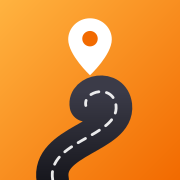
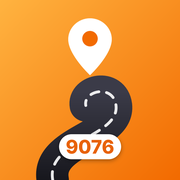
4.5.0: nome 9076 RoadBook e Modifica/Elimina rapide sui Run (#4)
- nome e icona: pagina iniziale, titolo, manifest, testi it/en/fr; etichetta 9076 nella zona sicura
- card dei Run: scorrimento a sinistra con Modifica ed Elimina (solo permesso runs_edit)
- dettaglio Run: Modifica in alto a destra
- eliminazione sempre con conferma rossa e testo su cosa viene cancellato
- test places: scorrimento, Annulla, conferma, Modifica

Claude-Session: https://claude.ai/code/session_01XTMJvUUmY7imZFYcgZZsDi

Changed region(s): [[0.3056, 0.7222, 0.6944, 0.9167]]

diff --git a/i18n.js b/i18n.js
@@ -148,7 +148,7 @@
     delete_member_msg: ["Verranno eliminati anche iscrizioni e dati di emergenza. In alternativa puoi disattivarlo.", "Signups and emergency details will be deleted too. You can deactivate instead.", "Inscriptions et données d'urgence seront supprimées aussi. Vous pouvez le désactiver à la place."],
     delete_photo_msg: ["Eliminare questa foto?", "Delete this photo?", "Supprimer cette photo ?"],
     delete_run: ["Elimina il Run", "Delete run", "Supprimer le Run"],
-    delete_run_msg: ["Verranno eliminati anche iscrizioni, formazione e foto.", "Signups, formation and photos will be deleted too.", "Inscriptions, formation et photos seront supprimées aussi."],
+    delete_run_msg: ["Verranno eliminati anche iscrizioni, formazione, pagamenti e foto. L'operazione non si può annullare.", "Signups, formation, payments and photos will be deleted too. This cannot be undone.", "Inscriptions, formation, paiements et photos seront supprimés aussi. Action irréversible."],
     deleted: ["Eliminato", "Deleted", "Supprimé"],
     destination: ["Destinazione", "Destination", "Destination"],
     diff_facile: ["Facile", "Easy", "Facile"], diff_impegnativa: ["Impegnativa", "Challenging", "Exigeante"], diff_media: ["Media", "Medium", "Moyenne"],
@@ -209,11 +209,11 @@
     importing: ["Importazione…", "Importing…", "Import en cours…"],
     inactive: ["Non attivo", "Inactive", "Inactif"],
     install: ["Installa", "Install", "Installer"],
-    install_ios: ["In Safari tocca Condividi, poi \"Aggiungi alla schermata Home\". Poi apri Roadbook dalla Home e inserisci il codice.", "In Safari tap Share, then \"Add to Home Screen\". Then open Roadbook from your Home Screen and enter your code.", "Dans Safari touchez Partager, puis « Sur l'écran d'accueil ». Ouvrez ensuite Roadbook depuis l'accueil et saisissez le code."],
-    install_other: ["Installa Roadbook come app sul dispositivo per aprirlo con un tocco.", "Install Roadbook as an app for one-tap access.", "Installez Roadbook comme application pour un accès en un geste."],
-    install_title: ["Usa Roadbook come app", "Use Roadbook as an app", "Utilisez Roadbook comme application"],
+    install_ios: ["In Safari tocca Condividi, poi \"Aggiungi alla schermata Home\". Poi apri 9076 RoadBook dalla Home e inserisci il codice.", "In Safari tap Share, then \"Add to Home Screen\". Then open 9076 RoadBook from your Home Screen and enter your code.", "Dans Safari touchez Partager, puis « Sur l'écran d'accueil ». Ouvrez ensuite 9076 RoadBook depuis l'accueil et saisissez le code."],
+    install_other: ["Installa 9076 RoadBook come app sul dispositivo per aprirlo con un tocco.", "Install 9076 RoadBook as an app for one-tap access.", "Installez 9076 RoadBook comme application pour un accès en un geste."],
+    install_title: ["Usa 9076 RoadBook come app", "Use 9076 RoadBook as an app", "Utilisez 9076 RoadBook comme application"],
     invite: ["Invito", "Invitation", "Invitation"],
-    invite_text: ["Ciao {0}! Ecco Roadbook, l'app del {1}. Apri {2} e usa il codice {3}.", "Hi {0}! Here's Roadbook, the {1} app. Open {2} and use code {3}.", "Salut {0} ! Voici Roadbook, l'appli du {1}. Ouvre {2} et utilise le code {3}."],
+    invite_text: ["Ciao {0}! Ecco 9076 RoadBook, l'app del {1}. Apri {2} e usa il codice {3}.", "Hi {0}! Here's 9076 RoadBook, the {1} app. Open {2} and use code {3}.", "Salut {0} ! Voici 9076 RoadBook, l'appli du {1}. Ouvre {2} et utilise le code {3}."],
     joined: ["Iscritto dal", "Member since", "Membre depuis"],
     k_rc: ["Road Captain", "Road Captain", "Road Captain"], k_safety: ["Safety", "Safety", "Safety"], k_scopa: ["Scopa", "Sweep", "Serre-file"], k_socio: ["Socio", "Member", "Membre"],
     language: ["Lingua", "Language", "Langue"],
@@ -241,7 +241,7 @@
     em_more: ["Aggiungi moto, gruppo sanguigno e salute (facoltativo)", "Add bike, blood type and health (optional)", "Ajouter moto, groupe sanguin et santé (facultatif)"],
     em_less: ["Nascondi i dati facoltativi", "Hide optional details", "Masquer les données facultatives"],
     tour_title: ["Guida rapida", "Quick guide", "Guide rapide"],
-    tour_sub: ["Come si usa Roadbook in 3 passi", "How Roadbook works in 3 steps", "Roadbook en 3 étapes"],
+    tour_sub: ["Come si usa 9076 RoadBook in 3 passi", "How 9076 RoadBook works in 3 steps", "9076 RoadBook en 3 étapes"],
     tour1_t: ["Rispondi ai Run", "Answer the Runs", "Répondez aux Runs"],
     tour1_d: ["Nella scheda Run tocca \"Ci sono\" o \"Non ci sono\". Se porti un passeggero, aggiungilo con un tocco.", "In the Run tab tap \"I'm in\" or \"I'm out\". Add a passenger with one tap.", "Dans l'onglet Run, touchez \"J'y suis\" ou \"Je n'y suis pas\". Ajoutez un passager d'un geste."],
     tour2_t: ["In caso di emergenza", "In an emergency", "En cas d'urgence"],
@@ -385,7 +385,7 @@
     pb_choose_short: ["Scegli", "Choose", "Choisir"],
     pb_change: ["Cambia", "Change", "Changer"],
     pb_open: ["Apri {0}", "Open {0}", "Ouvrir {0}"],
-    pb_once: ["La scegli una volta sola: Roadbook la ricorda su questo dispositivo.", "Choose it once: Roadbook remembers it on this device.", "Choisissez-la une fois : Roadbook s'en souvient sur cet appareil."],
+    pb_once: ["La scegli una volta sola: 9076 RoadBook la ricorda su questo dispositivo.", "Choose it once: 9076 RoadBook remembers it on this device.", "Choisissez-la une fois : 9076 RoadBook s'en souvient sur cet appareil."],
     pb_hint_ios: ["Copia i dati, poi tocca il pulsante: si apre l'App Store sulla tua banca, tocca «Apri» e incolla i dati nel bonifico.", "Copy the details, then tap the button: the App Store opens on your bank, tap «Open» and paste the details.", "Copiez les données, puis touchez le bouton : l'App Store s'ouvre sur votre banque, touchez «Ouvrir» et collez les données."],
     pb_hint_android: ["Copia i dati, poi tocca il pulsante: si apre l'app della banca (o il Play Store, dove tocchi «Apri»). Incolla i dati nel bonifico.", "Copy the details, then tap the button: your bank app opens (or the Play Store, tap «Open»). Paste the details.", "Copiez les données, puis touchez le bouton : l'app de la banque s'ouvre (ou le Play Store, touchez «Ouvrir»). Collez les données."],
     pb_hint_desk: ["Copia i dati e incollali nel bonifico dal sito della tua banca.", "Copy the details and paste them into a transfer on your bank's website.", "Copiez les données et collez-les dans un virement sur le site de votre banque."],
@@ -489,7 +489,7 @@
     live_share: ["Condividi la mia posizione", "Share my position", "Partager ma position"],
     live_share_on: ["Attiva: la vedono solo gli organizzatori", "On: only organisers can see it", "Activée : seuls les organisateurs la voient"],
     live_share_off: ["Spenta", "Off", "Désactivée"],
-    live_note: ["Su iPhone tieni Roadbook aperto con lo schermo acceso (sul supporto della moto): la posizione si aggiorna solo così. Si spegne da sola a fine Run e viene cancellata dopo 2 giorni.", "On iPhone keep Roadbook open with the screen on (on the bike mount): only then does the position update. It stops by itself after the Run and is deleted after 2 days.", "Sur iPhone gardez Roadbook ouvert écran allumé (sur le support moto) : la position ne se met à jour qu'ainsi. Elle s'arrête seule après le Run et est effacée après 2 jours."],
+    live_note: ["Su iPhone tieni 9076 RoadBook aperto con lo schermo acceso (sul supporto della moto): la posizione si aggiorna solo così. Si spegne da sola a fine Run e viene cancellata dopo 2 giorni.", "On iPhone keep 9076 RoadBook open with the screen on (on the bike mount): only then does the position update. It stops by itself after the Run and is deleted after 2 days.", "Sur iPhone gardez 9076 RoadBook ouvert écran allumé (sur le support moto) : la position ne se met à jour qu'ainsi. Elle s'arrête seule après le Run et est effacée après 2 jours."],
     live_map: ["Mappa del gruppo", "Group map", "Carte du groupe"],
     live_map_d: ["Chi è staccato, chi non aggiorna, distanza dal capofila", "Who is left behind, who is not updating, distance from the leader", "Qui est décroché, qui ne met pas à jour, distance du leader"],
     live_help: ["Aggiornamento ogni 20 secondi. \"Non aggiorna\" dopo {0} minuti senza posizione; \"staccato\" oltre {1} km dal Road Captain in testa.", "Updates every 20 seconds. \"Not updating\" after {0} minutes without a position; \"left behind\" beyond {1} km from the leading Road Captain.", "Mise à jour toutes les 20 secondes. « Sans mise à jour » après {0} minutes ; « décroché » au-delà de {1} km du Road Captain de tête."],
@@ -520,7 +520,7 @@
     push_s_on: ["Attive: promemoria 24 ore, 2 ore e 1 ora prima dei Run a cui partecipi", "On: reminders 24 h, 2 h and 1 h before the Runs you join", "Activées : rappels 24 h, 2 h et 1 h avant vos Runs"],
     push_s_off: ["Non attive su questo dispositivo", "Not active on this device", "Non activées sur cet appareil"],
     push_s_denied: ["Bloccate nelle impostazioni del dispositivo", "Blocked in device settings", "Bloquées dans les réglages"],
-    push_s_install: ["Su iPhone/iPad aggiungi prima Roadbook alla schermata Home", "On iPhone/iPad, first add Roadbook to the Home Screen", "Sur iPhone/iPad, ajoutez d'abord Roadbook à l'écran d'accueil"],
+    push_s_install: ["Su iPhone/iPad aggiungi prima 9076 RoadBook alla schermata Home", "On iPhone/iPad, first add 9076 RoadBook to the Home Screen", "Sur iPhone/iPad, ajoutez d'abord 9076 RoadBook à l'écran d'accueil"],
     push_s_unsupported: ["Non supportate da questo browser", "Not supported by this browser", "Non prises en charge par ce navigateur"],
     push_on: ["Attiva", "Turn on", "Activer"],
     push_off: ["Disattiva", "Turn off", "Désactiver"],
@@ -706,7 +706,7 @@
     settings: ["Impostazioni", "Settings", "Réglages"],
     share: ["Condividi", "Share", "Partager"],
     share_app: ["Condividi l'app", "Share the app", "Partager l'appli"],
-    share_app_text: ["Roadbook, l'app del {0}: {1}", "Roadbook, the {0} app: {1}", "Roadbook, l'appli du {0} : {1}"],
+    share_app_text: ["9076 RoadBook, l'app del {0}: {1}", "9076 RoadBook, the {0} app: {1}", "9076 RoadBook, l'appli du {0} : {1}"],
     show: ["Mostra", "Show", "Afficher"],
     sounds: ["Suoni", "Sounds", "Sons"],
     st_annullato: ["Annullato", "Cancelled", "Annulé"], st_concluso: ["Concluso", "Completed", "Terminé"], st_programmato: ["Programmato", "Scheduled", "Prévu"],

diff --git a/tests/places.test.js b/tests/places.test.js
@@ -57,7 +57,8 @@ function backend(page, level, log) {
     else if (fn === 'rc_run_photos') out = { ok: true, photos: [{ id: uid(), member_id: st.members[0].id, caption: null, data: GIF, created_at: new Date().toISOString() }] };
     else if (fn === 'rc_signup') { const i = st.signups.findIndex(s => s.run_id === body.p_run && s.member_id === (body.p_member || st.me.id)); const row = { run_id: body.p_run, member_id: body.p_member || st.me.id, status: body.p_status, passengers: body.p_passengers, checked_in: false }; if (body.p_status === 'rimuovi') { if (i >= 0) st.signups.splice(i, 1); } else if (i >= 0) st.signups[i] = row; else st.signups.push(row); }
     else if (fn === 'rc_formation_save') { const r = st.runs.find(x => x.id === body.p_run); r.formation = body.p_formation; r.formation_published = body.p_publish; }
-    else if (fn === 'rc_run_save') { const p = body.p; if (p.id) Object.assign(st.runs.find(r => r.id === p.id), { title: p.title, status: p.status, nav_tool: p.nav_tool, stops: p.stops }); else st.runs.push(Object.assign({ id: uid(), formation: [], formation_published: false, updated_at: new Date().toISOString() }, p, { km: p.km ? +p.km : null, max_participants: p.max_participants ? +p.max_participants : null })); out = { ok: true, id: p.id || 'x' }; }
+    else if (fn === 'rc_run_save') { const p = body.p; if (p.id) Object.assign(st.runs.find(r => r.id === p.id), { title: p.title, status: p.status, nav_tool: p.nav_tool, stops: p.stops }); else st.runs.push(Object.assign({ formation: [], formation_published: false, updated_at: new Date().toISOString() }, p, { id: uid(), km: p.km ? +p.km : null, max_participants: p.max_participants ? +p.max_participants : null })); out = { ok: true, id: p.id || st.runs[st.runs.length - 1].id }; }
+    else if (fn === 'rc_run_delete') { st.runs = st.runs.filter(r => r.id !== body.p_id); }
     else if (fn === 'rc_member_save') { const p = body.p; const nm = Object.assign({ id: uid(), active: true, has_photo: false, access_code: 'WXYZ6789' }, p); st.members.push(nm); out = { ok: true, id: nm.id }; }
     else if (fn === 'rc_profile_save') { const p = body.p; if (p.key) Object.assign(st.profiles.find(x => x.key === p.key), { name: p.name, perms: p.perms, in_direttivo: p.in_direttivo }); else st.profiles.push({ key: 'c_new_' + st.profiles.length, name: p.name, perms: p.perms, builtin: false, in_direttivo: p.in_direttivo, rank: 100 }); out = { ok: true, key: p.key || 'c_new' }; }
     else if (fn === 'rc_profile_delete') { st.profiles = st.profiles.filter(x => x.key !== body.p_key); }
@@ -225,6 +226,34 @@ async function newPage(browser, vp, level, log, errors) {
   assert.strictEqual(gs.title, 'Roma - Lucca'); assert.strictEqual(gs.meeting.name, 'H-D Store Roma'); assert.strictEqual(gs.meeting.kind, 'hd'); assert.strictEqual(gs.dest.name, 'Viale Europa'); assert.ok(Math.abs(gs.dest.lat - 43.834718) < 1e-6);
   assert.deepStrictEqual(gs.stops.filter(x => !x.end).map(x => [x.name, x.day]), [['IP', 1], ['Q8', 1], ['', 1]]); assert.ok(gs.stops.every(x => x.lat && x.lng)); assert.strictEqual(gs.stops[2].addr, '43.68360, 10.91292'); assert.strictEqual(gs.route_url, GM.iphone_1.short);
   step('import Google Maps: ritrovo H-D Store, 3 tappe con coordinate, arrivo Lucca salvati');
+
+  /* nome dell'app e gestione rapida dei Run (scorrimento Modifica / Elimina con conferma) */
+  assert.strictEqual(await page.title(), '9076 RoadBook'); step('nome app: 9076 RoadBook');
+  for (let k = 0; k < 4 && await page.locator('.sheet.in').count(); k++) { await page.keyboard.press('Escape'); await wait(450); }
+  await page.waitForSelector('.rsw .run'); await wait(500);
+  async function swipeFirst() {
+    const b = await page.locator('.rsw .run').first().boundingBox(), y = b.y + b.height / 2;
+    await page.mouse.move(b.x + b.width - 20, y); await page.mouse.down();
+    for (let k = 1; k <= 8; k++) await page.mouse.move(b.x + b.width - 20 - k * 30, y + 1);
+    await page.mouse.up(); await wait(450);
+  }
+  const nRuns = await page.locator('.rsw .run').count();
+  await swipeFirst(); assert.strictEqual(await page.locator('.rsw.open').count(), 1); assert.strictEqual(await page.locator('.sheet.in').count(), 0, 'lo scorrimento non apre il dettaglio');
+  await page.screenshot({ path: SHOTS + '28-run-scorrimento.png' }); step('scorrimento: compaiono Modifica ed Elimina');
+  await page.click('.rsw.open .rsw-del'); await page.waitForSelector('.sheet.in .ask');
+  tt = await page.locator('.sheet.in').last().textContent(); assert.ok(tt.includes('Elimina il Run?') && tt.includes('non si può annullare'), tt);
+  await page.screenshot({ path: SHOTS + '29-run-conferma-elimina.png' });
+  await page.click('.sheet.in .ask .btn.sec'); await wait(500);
+  assert.ok(!log.some(l => l.fn === 'rc_run_delete')); assert.strictEqual(await page.locator('.rsw .run').count(), nRuns); step('elimina: Annulla non cancella nulla');
+  await swipeFirst(); await page.click('.rsw.open .rsw-del'); await page.waitForSelector('.sheet.in .ask'); await page.click('.sheet.in .ask .btn.dng'); await wait(900);
+  const del = log.filter(l => l.fn === 'rc_run_delete'); assert.strictEqual(del.length, 1); assert.ok(del[0].body.p_id);
+  assert.strictEqual(await page.locator('.rsw .run').count(), nRuns - 1); step('elimina: dopo la conferma il Run sparisce');
+  await swipeFirst(); await page.click('.rsw.open .rsw-edit'); await page.waitForSelector('#rf-title'); step('scorrimento: Modifica apre il modulo');
+  await page.keyboard.press('Escape'); await wait(600); for (let k = 0; k < 3 && await page.locator('.sheet.in').count(); k++) { await page.keyboard.press('Escape'); await wait(450); }
+  await page.locator('.rsw .run').first().click(); await page.waitForSelector('.sheet.in .sbar .sb.r');
+  assert.strictEqual((await page.locator('.sheet.in .sbar .sb.r').textContent()).trim(), 'Modifica');
+  await page.screenshot({ path: SHOTS + '30-run-dettaglio-modifica.png' });
+  await page.click('.sheet.in .sbar .sb.r'); await page.waitForSelector('#rf-title'); step('dettaglio: Modifica in alto a destra apre il modulo');
   assert.deepStrictEqual(errors, [], errors.join('\n'));
   await browser.close(); console.log('PLACES OK');
 })().catch(e => { console.error(e); process.exit(1); });

diff --git a/style.css b/style.css
@@ -567,26 +567,34 @@ input,select,textarea{min-height:44px}
 .al-more{flex:none;min-width:52px;min-height:44px;padding:0 12px;border:0;border-radius:12px;background:var(--fill);color:inherit;font:inherit;font-size:15px;font-weight:700;cursor:pointer}
 .alerts.all .al-more{width:100%}
 .view>.seg{margin-bottom:12px}
-.view>.run{padding:13px 14px;gap:12px;margin-bottom:12px}
-.view>.run .chips{flex-wrap:wrap;row-gap:20px;max-height:var(--chip-h,30px);overflow:hidden;margin-top:6px}
-.view>.run .chips .chip{flex:none}
-.view>.run .me{margin-top:8px}
+.view>.run,
+.view>.rsw>.run{padding:13px 14px;gap:12px;margin-bottom:12px}
+.view>.run .chips,
+.view>.rsw>.run .chips{flex-wrap:wrap;row-gap:20px;max-height:var(--chip-h,30px);overflow:hidden;margin-top:6px}
+.view>.run .chips .chip,
+.view>.rsw>.run .chips .chip{flex:none}
+.view>.run .me,
+.view>.rsw>.run .me{margin-top:8px}
 @media(max-width:899px) and (max-height:960px){.view>.top small{display:none}.view>.top{margin:2px 0 10px}}
 @media(max-height:720px){
   .view .top h1{font-size:28px}
-  .view>.run h3{font-size:17px}
-  .view>.run .wh{font-size:14px}
+  .view>.run h3,
+  .view>.rsw>.run h3{font-size:17px}
+  .view>.run .wh,
+  .view>.rsw>.run .wh{font-size:14px}
   .who-sos{height:60px}
   .whobar{margin-bottom:6px}
   .view>.top h1{font-size:26px}
   .view>.top{margin:0 0 6px}
   .view>.seg{padding:3px;margin-bottom:10px}
-  .view>.run{padding:11px 13px;margin-bottom:10px}
-  .view>.run:not(.hero) .chips{display:none}
+  .view>.run,
+  .view>.rsw>.run{padding:11px 13px;margin-bottom:10px}
+  .view>.run:not(.hero) .chips,
+  .view>.rsw>.run:not(.hero) .chips{display:none}
 }
 .login{min-height:100vh;min-height:100dvh;padding:max(16px,env(safe-area-inset-top)) 24px max(16px,env(safe-area-inset-bottom))}
 @media(max-height:720px){.login .logo{width:72px;height:72px;margin-bottom:12px}.login h1{font-size:30px}.login .sub{margin-bottom:16px}.login .btn.sos-login{margin-top:20px}.login .lg{margin-top:16px}}
-@media(max-height:600px){.view>.top h1{font-size:22px}.view>.top .ib{width:44px;height:44px}.view>.run .chips{display:none}.view>.run .wh{display:none}.login .logo{width:56px;height:56px;margin-bottom:8px}.login h1{font-size:26px}.login .sub{margin-bottom:10px}}
+@media(max-height:600px){.view>.top h1{font-size:22px}.view>.top .ib{width:44px;height:44px}.view>.run .chips,.view>.rsw>.run .chips{display:none}.view>.run .wh,.view>.rsw>.run .wh{display:none}.login .logo{width:56px;height:56px;margin-bottom:8px}.login h1{font-size:26px}.login .sub{margin-bottom:10px}}
 @media(max-height:600px){.login .btn.sos-login{margin-top:12px;min-height:60px}.login .lg{margin-top:10px}.login #rel{margin-top:6px!important}.login .list{margin-bottom:0}}
 .view{padding-bottom:calc(86px + env(safe-area-inset-bottom))}
 .view>:last-child{margin-bottom:0}
@@ -604,3 +612,18 @@ input,select,textarea{min-height:44px}
 .pc-card .btn{flex:1;min-height:48px}
 #reset-box .pass small{display:block}
 .mapbox iframe{display:block;width:100%;height:190px;border:0;background:var(--gl)}
+
+/* scorrimento Modifica / Elimina sulle card dei Run */
+.rsw{position:relative;margin:10px 0;width:100%}
+.rsw>.run{margin:0;touch-action:pan-y;z-index:1;transition:transform .32s var(--sp);animation-fill-mode:backwards}
+.rsw>.run.drag{transition:none}
+.rsw-acts{position:absolute;inset:0 0 0 auto;display:flex;align-items:stretch;padding-left:26px;background:var(--er);border-radius:26px;overflow:hidden}
+.rsw-b{display:flex;flex-direction:column;align-items:center;justify-content:center;gap:4px;width:84px;border:0;color:#fff;font:600 13px/1.1 inherit;cursor:pointer}
+.rsw-b .ic,.rsw-b svg{width:22px;height:22px}
+.rsw-edit{background:#0a84ff}
+.rsw-del{background:var(--er)}
+.rsw:not(.open) .rsw-acts{visibility:hidden}
+.rsw.open .rsw-acts,.rsw:has(.run.drag) .rsw-acts{visibility:visible}
+@media (prefers-reduced-motion:reduce){.rsw>.run{transition:none}}
+.view>.rsw{margin:0 0 12px}.view>.rsw>.run{margin:0}
+@media(max-height:720px){.view>.rsw{margin-bottom:10px}}

diff --git a/views-run.js b/views-run.js
@@ -52,8 +52,24 @@
       onclick: function () { RB.feel('tap'); RB.openRun(r.id); }, onkeydown: function (e) { if (e.key === 'Enter') RB.openRun(r.id); } },
       h('div', { class: 'dbox' }, h('b', null, dt.getDate()), h('span', null, RB.fmt.month(dt))),
       h('div', { class: 'bd' }, h('h3', null, r.title), h('div', { class: 'wh' }, RB.fmt.time(dt) + (r.meeting_point ? ' · ' + r.meeting_point : '')), chips, me));
-    return card;
+    if (!RB.can('runs_edit')) return card;
+    /* chi gestisce i Run: scorri a sinistra per Modifica / Elimina, come in Mail su iPhone */
+    return RB.swipe(card, [
+      { label: t('edit'), icon: 'edit', cls: 'rsw-edit', fn: function () { RB.runForm(r.id); } },
+      { label: t('delete'), icon: 'trash', cls: 'rsw-del', fn: function () { RB.runDelete(r); } }
+    ]);
   }
+
+  /* elimina un Run dopo la conferma (pulsante rosso): iscrizioni, pagamenti e foto collegati vengono cancellati */
+  RB.runDelete = function (r, done) {
+    return RB.ask({ title: t('delete_run') + '?', msg: '«' + r.title + '» · ' + t('delete_run_msg'), ok: t('delete'), no: t('cancel'), danger: true }).then(function (ok) {
+      if (!ok) return false;
+      return RB.write('rc_run_delete', { p_id: r.id }).then(function (x) {
+        if (x.ok) { RB.toast(t('deleted')); RB.sound('ok'); if (done) done(); } else RB.toast(RB.errMsg(x.error), 'err');
+        return !!x.ok;
+      });
+    });
+  };
 
   /* archivio: Run passati con ricerca, anno e stato; si possono riaprire e richiamare come nuovo Run */
   function archiveFilters(root, past) {
@@ -100,7 +116,7 @@
   /* ---------- dettaglio ---------- */
   RB.openRun = function (id) {
     var state = { photos: null };
-    var ctl = RB.sheet({ title: '', full: true });
+    var ctl = RB.sheet({ title: '', full: true, right: RB.can('runs_edit') ? { label: t('edit'), fn: function () { RB.feel('tap'); RB.runForm(id); } } : null });
     function build() {
       var r = RB.run(id);
       if (!r) { ctl.close(true); return; }
@@ -275,11 +291,7 @@
       if (r.status === 'programmato') acts.appendChild(RB.row({ title: t('mark_done'), go: false, onclick: function () { setStatus(r, 'concluso'); } }));
       if (r.status !== 'annullato') acts.appendChild(RB.row({ title: t('cancel_run'), go: false, cls: 'dng', onclick: function () { RB.ask({ title: t('cancel_run'), msg: t('cancel_run_msg'), ok: t('cancel_run'), danger: true }).then(function (ok) { if (ok) setStatus(r, 'annullato'); }); } }));
       else acts.appendChild(RB.row({ title: t('reopen_run'), go: false, onclick: function () { setStatus(r, 'programmato'); } }));
-      acts.appendChild(RB.row({ lead: RB.icon('trash'), title: t('delete_run'), go: false, cls: 'dng', onclick: function () {
-        RB.ask({ title: t('delete_run'), msg: t('delete_run_msg'), ok: t('delete'), danger: true }).then(function (ok) {
-          if (ok) RB.write('rc_run_delete', { p_id: r.id }).then(function (x) { if (x.ok) { ctl.close(true); RB.toast(t('deleted')); } else RB.toast(RB.errMsg(x.error), 'err'); });
-        });
-      } }));
+      acts.appendChild(RB.row({ lead: RB.icon('trash'), title: t('delete_run'), go: false, cls: 'dng', onclick: function () { RB.runDelete(r, function () { ctl.close(true); }); } }));
     }
     f.appendChild(acts);
     return f;

diff --git a/ui.js b/ui.js
@@ -2,7 +2,7 @@
 (function () {
   'use strict';
   var RB = window.RB = window.RB || {};
-  RB.RELEASE = '4.4.0';
+  RB.RELEASE = '4.5.0';
 
   /* ---------- DOM sicuro: i testi sono sempre nodi di testo, mai HTML ---------- */
   function add(el, kids) {
@@ -149,6 +149,40 @@
         h('button', { type: 'button', class: 'btn sec', onclick: function () { fin(false); ctl.close(); } }, o.no || RB.t('cancel')));
       ctl = RB.sheet({ title: o.title, content: box, cls: 'menu', onclose: function () { fin(false); } });
     });
+  };
+
+  /* scorrimento a sinistra che scopre azioni (stile Mail su iPhone). Un solo elemento aperto alla volta;
+     tocco altrove o scorrimento a destra richiude. Con tastiera: le azioni restano nel dettaglio. */
+  var swOpen = null;
+  function swClose(w) { if (!w) return; w.classList.remove('open'); w.firstChild.style.transform = ''; if (swOpen === w) swOpen = null; }
+  document.addEventListener('pointerdown', function (e) { if (swOpen && !swOpen.contains(e.target)) swClose(swOpen); }, true);
+  RB.swipe = function (node, actions) {
+    var acts = h('div', { class: 'rsw-acts', 'aria-hidden': 'true' }), wrap = h('div', { class: 'rsw' }, node, acts), W = 0;
+    actions.forEach(function (a) {
+      acts.appendChild(h('button', { type: 'button', class: 'rsw-b ' + (a.cls || ''), tabindex: '-1', onclick: function (e) { e.stopPropagation(); swClose(wrap); RB.feel('tap'); a.fn(); } }, RB.icon(a.icon), h('span', null, a.label)));
+    });
+    var x0 = 0, y0 = 0, dx = 0, mode = '', base = 0, id = null;
+    node.addEventListener('pointerdown', function (e) {
+      if (e.button > 0 || e.target.closest('.me')) return;
+      id = e.pointerId; x0 = e.clientX; y0 = e.clientY; dx = 0; mode = ''; W = acts.offsetWidth - 26; base = wrap.classList.contains('open') ? -W : 0;
+    });
+    node.addEventListener('pointermove', function (e) {
+      if (e.pointerId !== id) return;
+      var mx = e.clientX - x0, my = e.clientY - y0;
+      if (!mode) { if (Math.abs(mx) < 8 && Math.abs(my) < 8) return; mode = Math.abs(mx) > Math.abs(my) ? 'x' : 'y'; if (mode === 'x') { try { node.setPointerCapture(id); } catch (err) {} node.classList.add('drag'); if (swOpen && swOpen !== wrap) swClose(swOpen); } }
+      if (mode !== 'x') return;
+      dx = Math.max(-W - 30, Math.min(0, base + mx)); node.style.transform = 'translateX(' + dx + 'px)';
+    });
+    function end(e) {
+      if (e.pointerId !== id) return; id = null; node.classList.remove('drag');
+      if (mode !== 'x') return;
+      if (dx < -W / 2) { wrap.classList.add('open'); node.style.transform = 'translateX(' + -W + 'px)'; swOpen = wrap; RB.feel('tap'); }
+      else swClose(wrap);
+    }
+    node.addEventListener('pointerup', end); node.addEventListener('pointercancel', end);
+    /* dopo uno scorrimento il clic non deve aprire il dettaglio; da aperto il tocco richiude */
+    node.addEventListener('click', function (e) { if (mode === 'x' || wrap.classList.contains('open')) { e.stopImmediatePropagation(); e.preventDefault(); if (mode !== 'x') swClose(wrap); } mode = ''; }, true);
+    return wrap;
   };
 
   /* ---------- formati ---------- */

diff --git a/app.js b/app.js
@@ -44,7 +44,7 @@
     var langs = RB.seg([{ v: 'it', label: 'Italiano' }, { v: 'en', label: 'English' }, { v: 'fr', label: 'Français' }], RB.pref.lang, function (v) { RB.pref.lang = v; RB.savePref(); RB.applyPref(); loginScreen('', resume); });
     app.appendChild(h('div', { class: 'login' },
       h('img', { class: 'logo' + (RB.logoSrc() === 'icon-180.png' ? '' : ' logo-img'), src: RB.logoSrc(), alt: '' }),
-      h('h1', null, 'Roadbook'), h('p', { class: 'sub' }, t('login_sub')),
+      h('h1', null, '9076 RoadBook'), h('p', { class: 'sub' }, t('login_sub')),
       h('div', { class: 'list' }, h('label', { class: 'field' }, h('span', null, t('access_code')), code)),
       err, btn, resumeBtn, h('p', { class: 'sm', style: 'text-align:center' }, t('login_help')),
       h('button', { type: 'button', class: 'btn sos-btn sos-login', id: 'sos-public', onclick: function () { RB.feel('tap'); RB.sosOpen('public'); } }, RB.icon('alert'), t('sos_btn')), h('div', { class: 'lg' }, langs), h('p', { class: 'sm', style: 'text-align:center;opacity:.45;font-size:11px;margin-top:14px', id: 'rel' }, 'Release ' + RB.RELEASE)));
@@ -59,7 +59,7 @@
   /* ---------- struttura ---------- */
   function shell() {
     RB.clear(app);
-    var tabs = h('nav', { class: 'tabs', 'aria-label': 'Roadbook' }, h('div', { class: 'brand' }, h('img', { id: 'brand-logo', src: RB.logoSrc(), alt: '' }), 'Roadbook'));
+    var tabs = h('nav', { class: 'tabs', 'aria-label': '9076 RoadBook' }, h('div', { class: 'brand' }, h('img', { id: 'brand-logo', src: RB.logoSrc(), alt: '' }), '9076 RoadBook'));
     var vt = visibleTabs(); shellKey = vt.map(function (x) { return x[0]; }).join();
     vt.forEach(function (x) {
       tabs.appendChild(h('button', { type: 'button', class: 'tab', 'data-tab': x[0], onclick: function () {
@@ -189,7 +189,7 @@
       RB.seg([{ v: 'auto', label: t('ap_auto') }, { v: 'light', label: t('ap_light') }, { v: 'dark', label: t('ap_dark') }], RB.pref.ap, function (v) { RB.pref.ap = v; RB.savePref(); RB.applyPref(); })),
       h('div', { class: 'pass' }, h('span', null, t('sounds')), RB.toggle(RB.pref.sound, function (on) { RB.pref.sound = on; RB.savePref(); if (on) RB.sound('ok'); }))));
     root.appendChild(h('div', { class: 'list', style: 'margin-top:22px' }, RB.row({ title: t('logout'), cls: 'act dng', go: false, onclick: askLogout })));
-    root.appendChild(h('p', { class: 'sm', style: 'text-align:center;margin-top:18px' }, 'Roadbook · ' + RB.chapterName()));
+    root.appendChild(h('p', { class: 'sm', style: 'text-align:center;margin-top:18px' }, '9076 RoadBook · ' + RB.chapterName()));
   };
 
   function chapterForm() {

diff --git a/index.html b/index.html
@@ -5,10 +5,10 @@
 <meta name="viewport" content="width=device-width, initial-scale=1, viewport-fit=cover">
 <meta name="theme-color" content="#f2f2f7">
 <meta name="color-scheme" content="light dark">
-<title>Roadbook</title>
+<title>9076 RoadBook</title>
 <meta name="apple-mobile-web-app-capable" content="yes">
 <meta name="mobile-web-app-capable" content="yes">
-<meta name="apple-mobile-web-app-title" content="Roadbook">
+<meta name="apple-mobile-web-app-title" content="9076 RoadBook">
 <meta name="apple-mobile-web-app-status-bar-style" content="default">
 <link rel="apple-touch-icon" href="icon-180.png">
 <link rel="icon" type="image/png" href="icon-180.png">
@@ -19,7 +19,7 @@
 <div id="app"></div>
 <div id="sheets"></div>
 <div id="toasts" aria-live="polite"></div>
-<noscript><p style="padding:24px;font:17px system-ui">Roadbook richiede JavaScript.</p></noscript>
+<noscript><p style="padding:24px;font:17px system-ui">9076 RoadBook richiede JavaScript.</p></noscript>
 <script src="logic.js"></script>
 <script src="ui.js"></script>
 <script src="i18n.js"></script>

diff --git a/sw.js b/sw.js
@@ -1,5 +1,5 @@
 /* Roadbook · service worker: l'app si apre anche senza rete (rete prima, copia salvata come riserva) */
-var CACHE = 'roadbook-v33';
+var CACHE = 'roadbook-v34';
 var FILES = ['./', 'index.html', 'style.css', 'logic.js', 'ui.js', 'i18n.js', 'api.js', 'common.js', 'xls.js', 'places.js', 'views-run.js', 'views-people.js', 'views-admin.js', 'views-weather.js', 'wxscene.js', 'views-meteo.js', 'views-sos.js', 'sos.js', 'push.js', 'extras.js', 'vendor/qrcode.js', 'vendor/jsqr.js', 'vendor/jspdf.umd.min.js', 'views-pay.js', 'review.js', 'live.js', 'views-report.js', 'app.js', 'manifest.webmanifest', 'icon-180.png', 'icon-192.png', 'icon-512.png'];
 
 self.addEventListener('install', function (e) {
